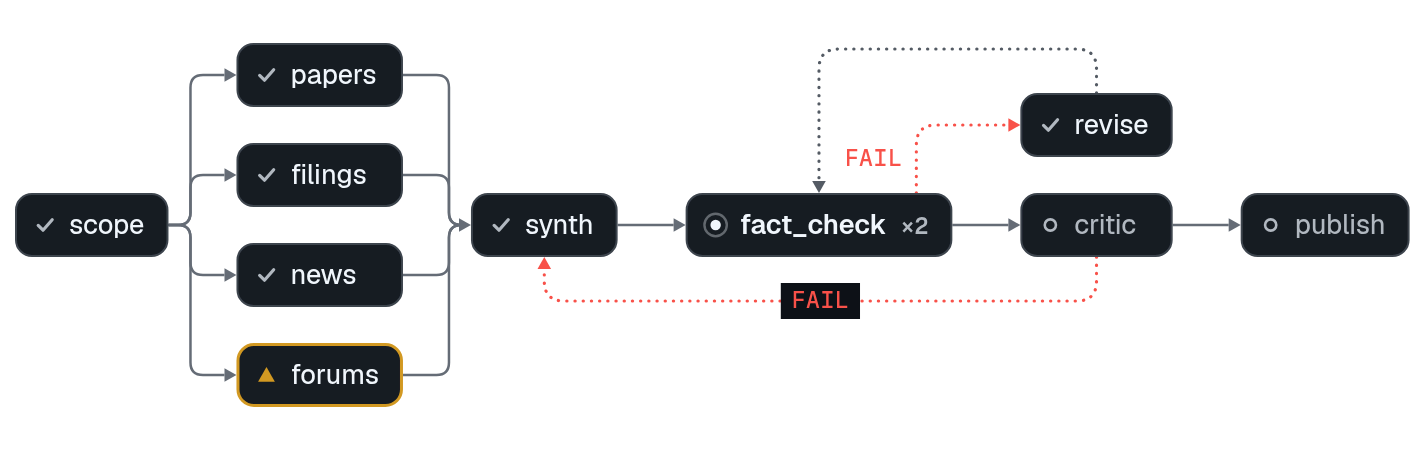
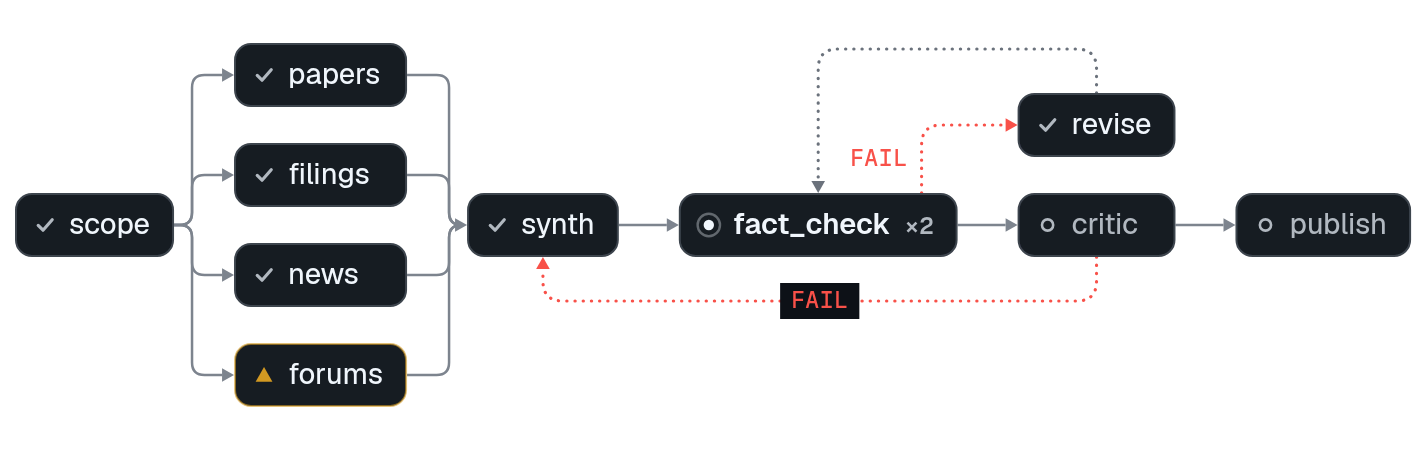
workgraph: quieter accent borders, solid READY marker, brighter dark lines, larger labels

diff --git a/workgraph/README.md b/workgraph/README.md
@@ -23,7 +23,7 @@ back to `plan`.
 
 <picture>
   <source media="(prefers-color-scheme: dark)" srcset="./assets/graph-legend-dark.png">
-  <img src="./assets/graph-legend-light.png" width="736" alt="Key: dashed ring PENDING, ring READY, bold ring RUNNING, check VERIFIED, red dot FAILED, amber triangle ESCALATED; red dotted line = FAIL edge; gray dotted line = loop back; ×N = visit count">
+  <img src="./assets/graph-legend-light.png" width="735" alt="Key: hollow ring PENDING, solid dot READY, ringed dot and bold label RUNNING, check VERIFIED, red dot FAILED, amber triangle ESCALATED; red dotted line = FAIL edge; gray dotted line = loop back; ×N = visit count">
 </picture>
 
 ### Multi-source research report with fact-check and revision
@@ -35,7 +35,7 @@ second check is running now. A `critic` FAIL goes back to `synth`.
 
 <picture>
   <source media="(prefers-color-scheme: dark)" srcset="./assets/graph-research-report-dark.png">
-  <img src="./assets/graph-research-report-light.png" width="639" alt="Research report graph: scope, papers, filings, news, synth and revise verified; forums escalated; fact_check ×2 running; critic and publish pending">
+  <img src="./assets/graph-research-report-light.png" width="640" alt="Research report graph: scope, papers, filings, news, synth and revise verified; forums escalated; fact_check ×2 running; critic and publish pending">
 </picture>
 
 ### Release with a test matrix, canary and rollback
@@ -47,7 +47,7 @@ on macOS and e2e, while `notes` waits at `rollout`.
 
 <picture>
   <source media="(prefers-color-scheme: dark)" srcset="./assets/graph-release-canary-dark.png">
-  <img src="./assets/graph-release-canary-light.png" width="733" alt="Release graph: freeze, build ×2, linux ×2, windows ×2, rollback, hotfix and notes verified; macos ×2 and e2e ×2 running; canary failed; gate and rollout pending">
+  <img src="./assets/graph-release-canary-light.png" width="730" alt="Release graph: freeze, build ×2, linux ×2, windows ×2, rollback, hotfix and notes verified; macos ×2 and e2e ×2 running; canary failed; gate and rollout pending">
 </picture>
 
 ```bash
